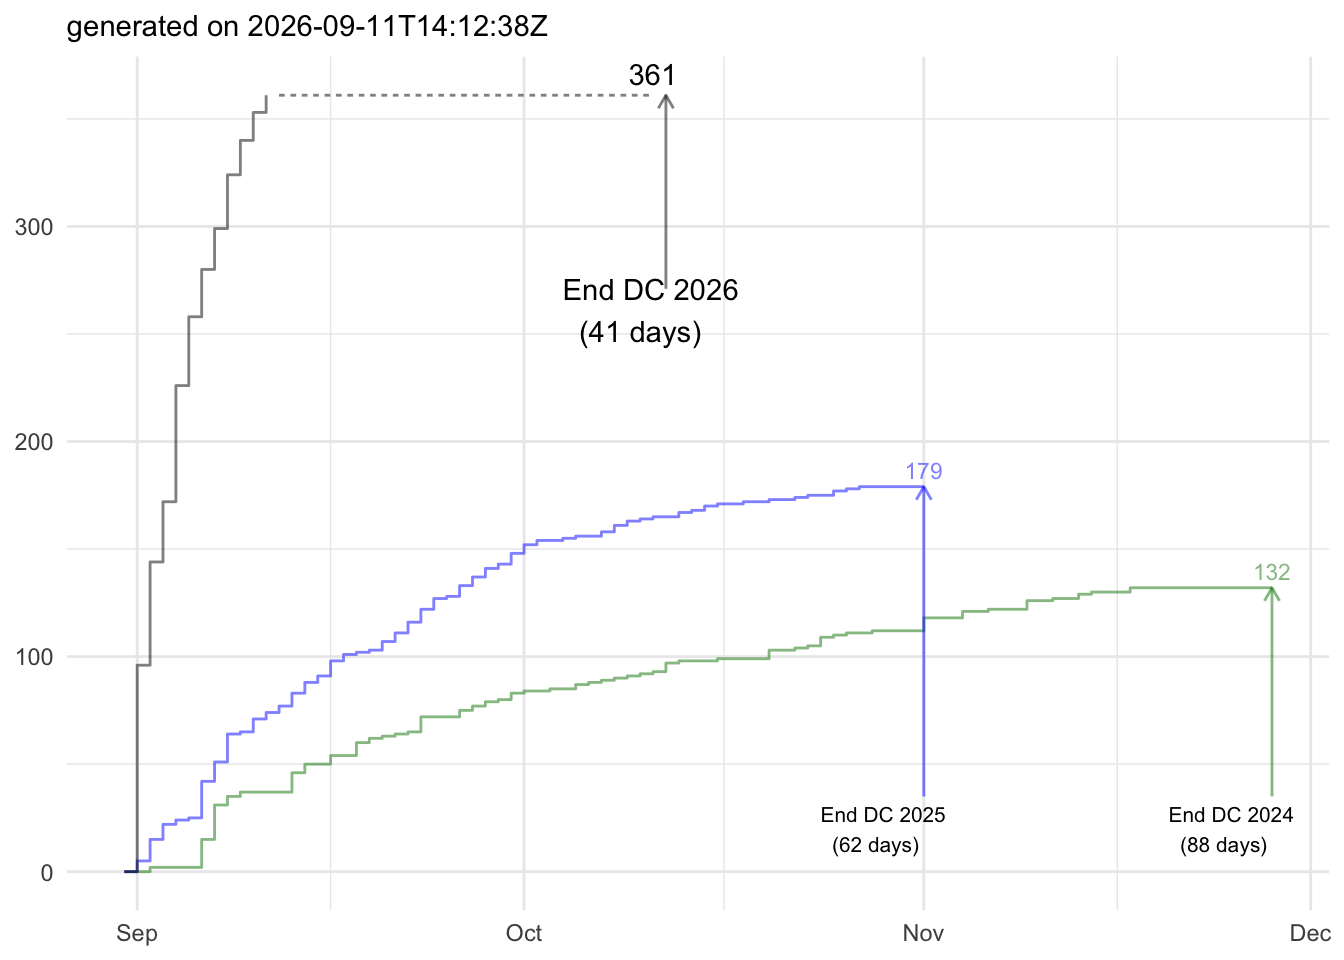
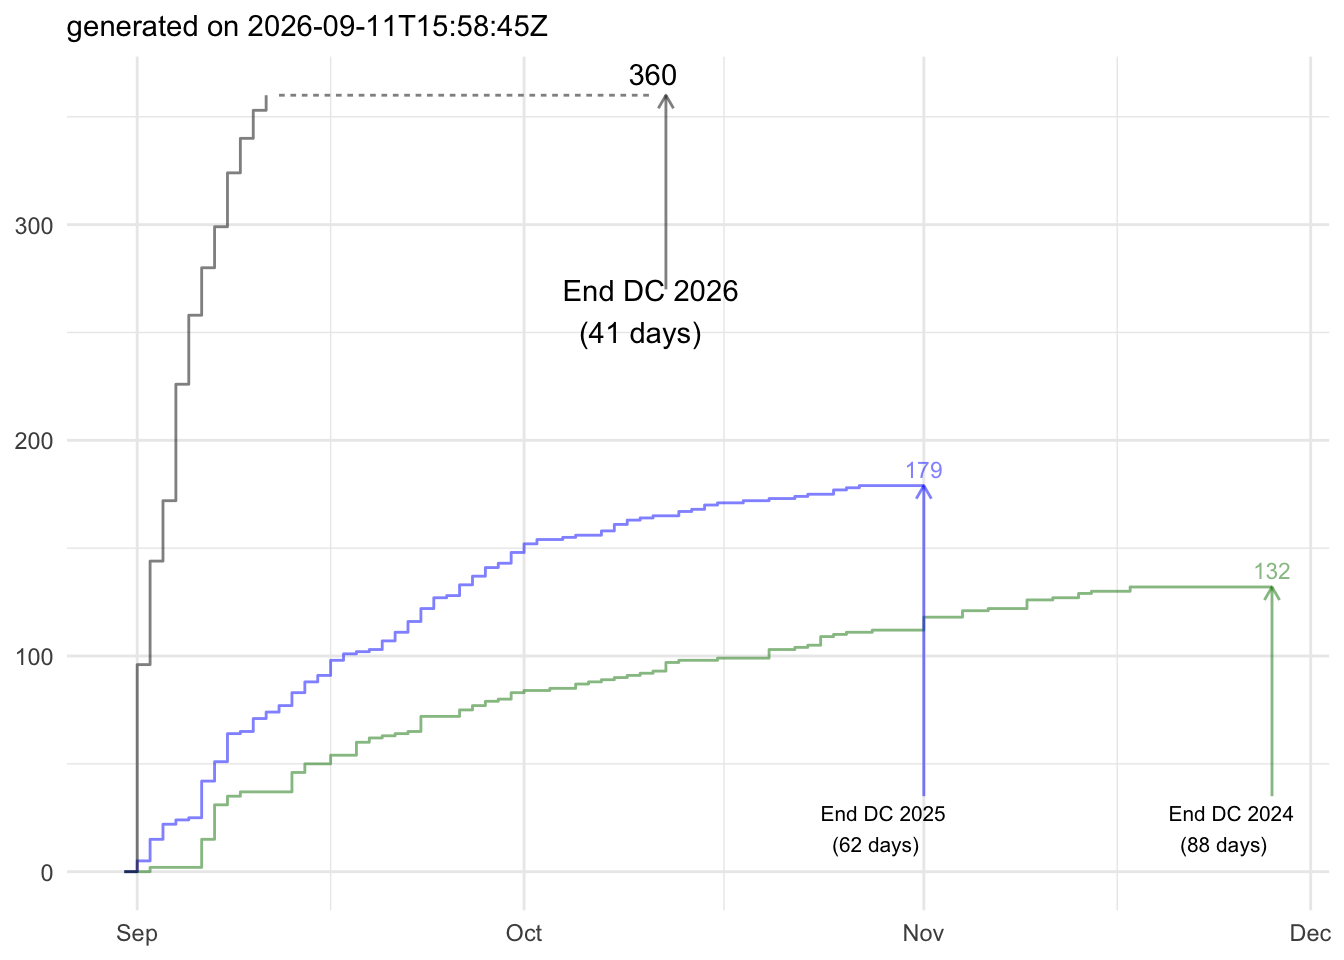
add plots

diff --git a/_site/teams/index.html b/_site/teams/index.html
@@ -2734,26 +2734,21 @@ window.Quarto = {
 </header>
 
 
-<div class="callout callout-style-default callout-note callout-titled" title="Note">
-<div class="callout-header d-flex align-content-center">
-<div class="callout-icon-container">
-<i class="callout-icon"></i>
-</div>
-<div class="callout-title-container flex-fill">
-<span class="screen-reader-only">Note</span>Note
-</div>
-</div>
-<div class="callout-body-container callout-body">
-<p><strong>Observable migrated to its new Notebook framework exactly on 1st Sep…which broke the leaderboard below and the plot of registered teams in the Stats page.<br>
-I am trying to fix it.<br>
-You can retrieve all submissions info via the API as explained in the Ranking page.</strong></p>
-</div>
-</div>
 <div class="cell">
 <div class="cell-output-display">
 <div>
 <figure class="figure">
 <p><img src="index_files/figure-html/plot_cumul-1.png" class="img-fluid figure-img" width="672"></p>
+</figure>
+</div>
+</div>
+</div>
+<div class="cell">
+<div class="cell-output-display">
+<div class="quarto-figure quarto-figure-center">
+<figure class="figure">
+<p><img src="index_files/figure-html/teams-bar-b2-1.png" class="img-fluid figure-img" width="672"></p>
+<figcaption>Teams per country</figcaption>
 </figure>
 </div>
 </div>
